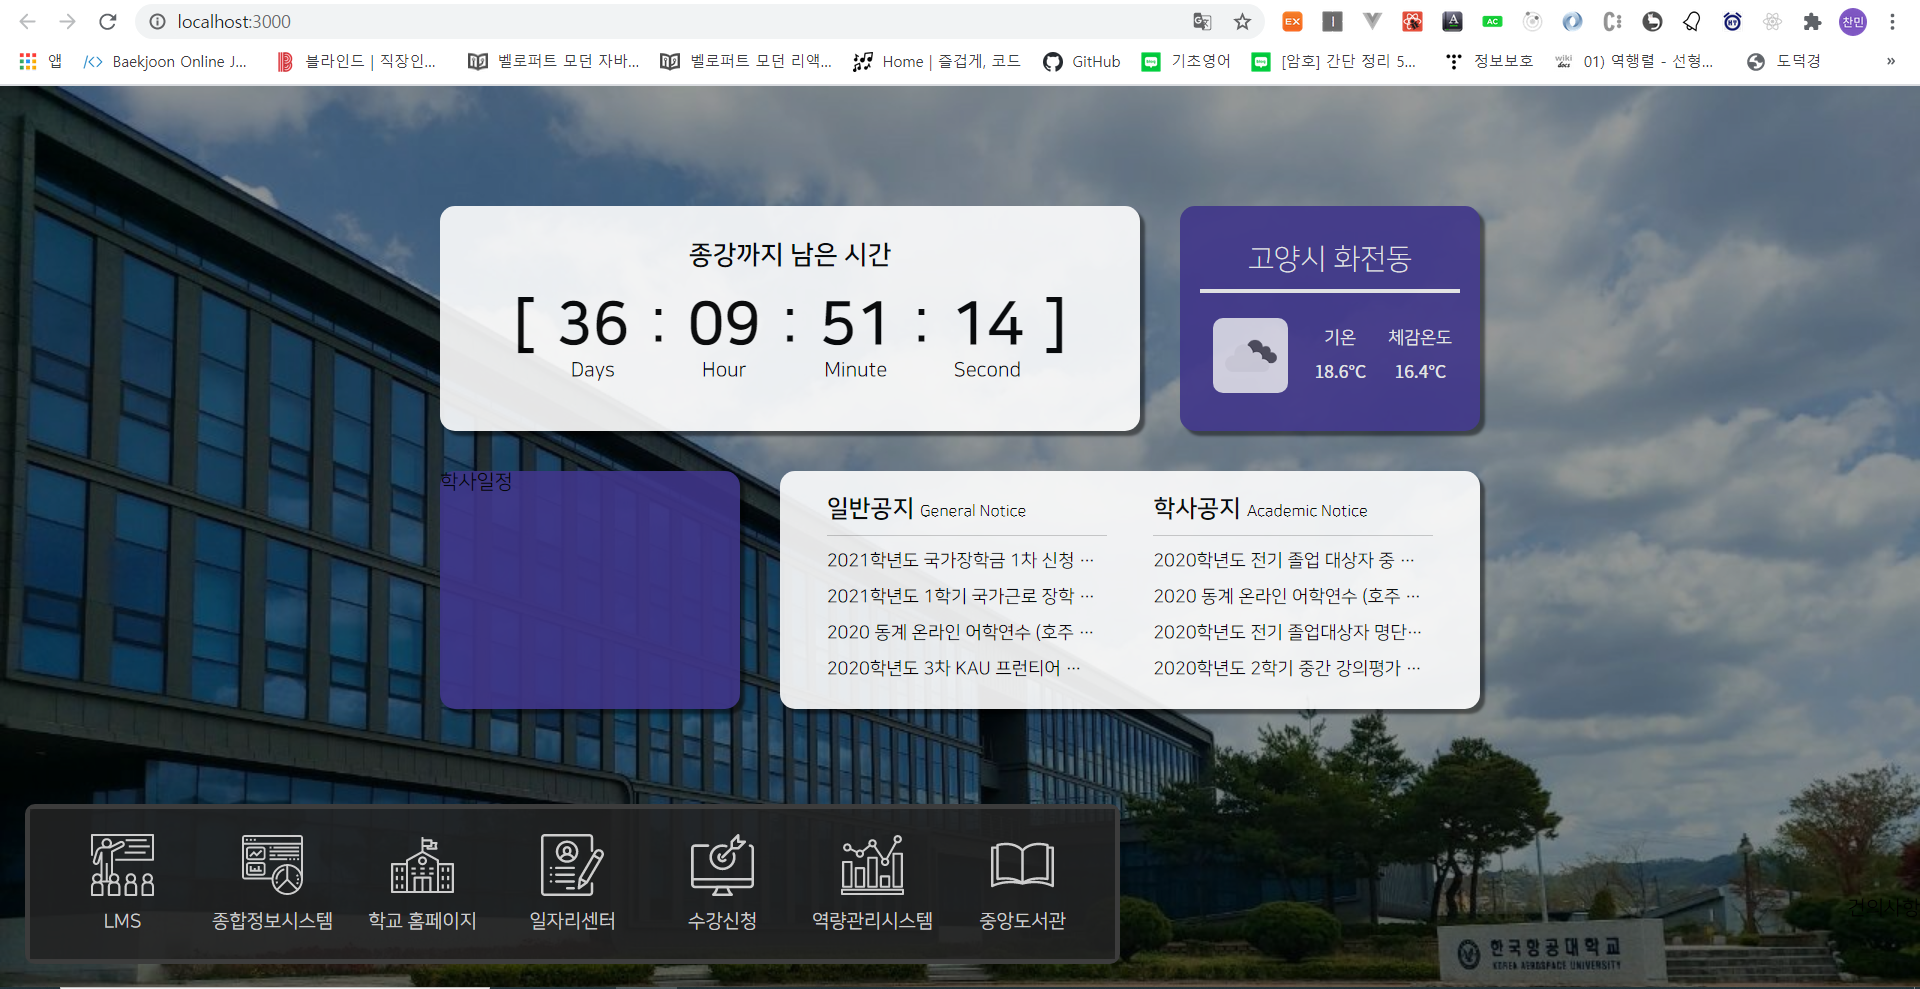
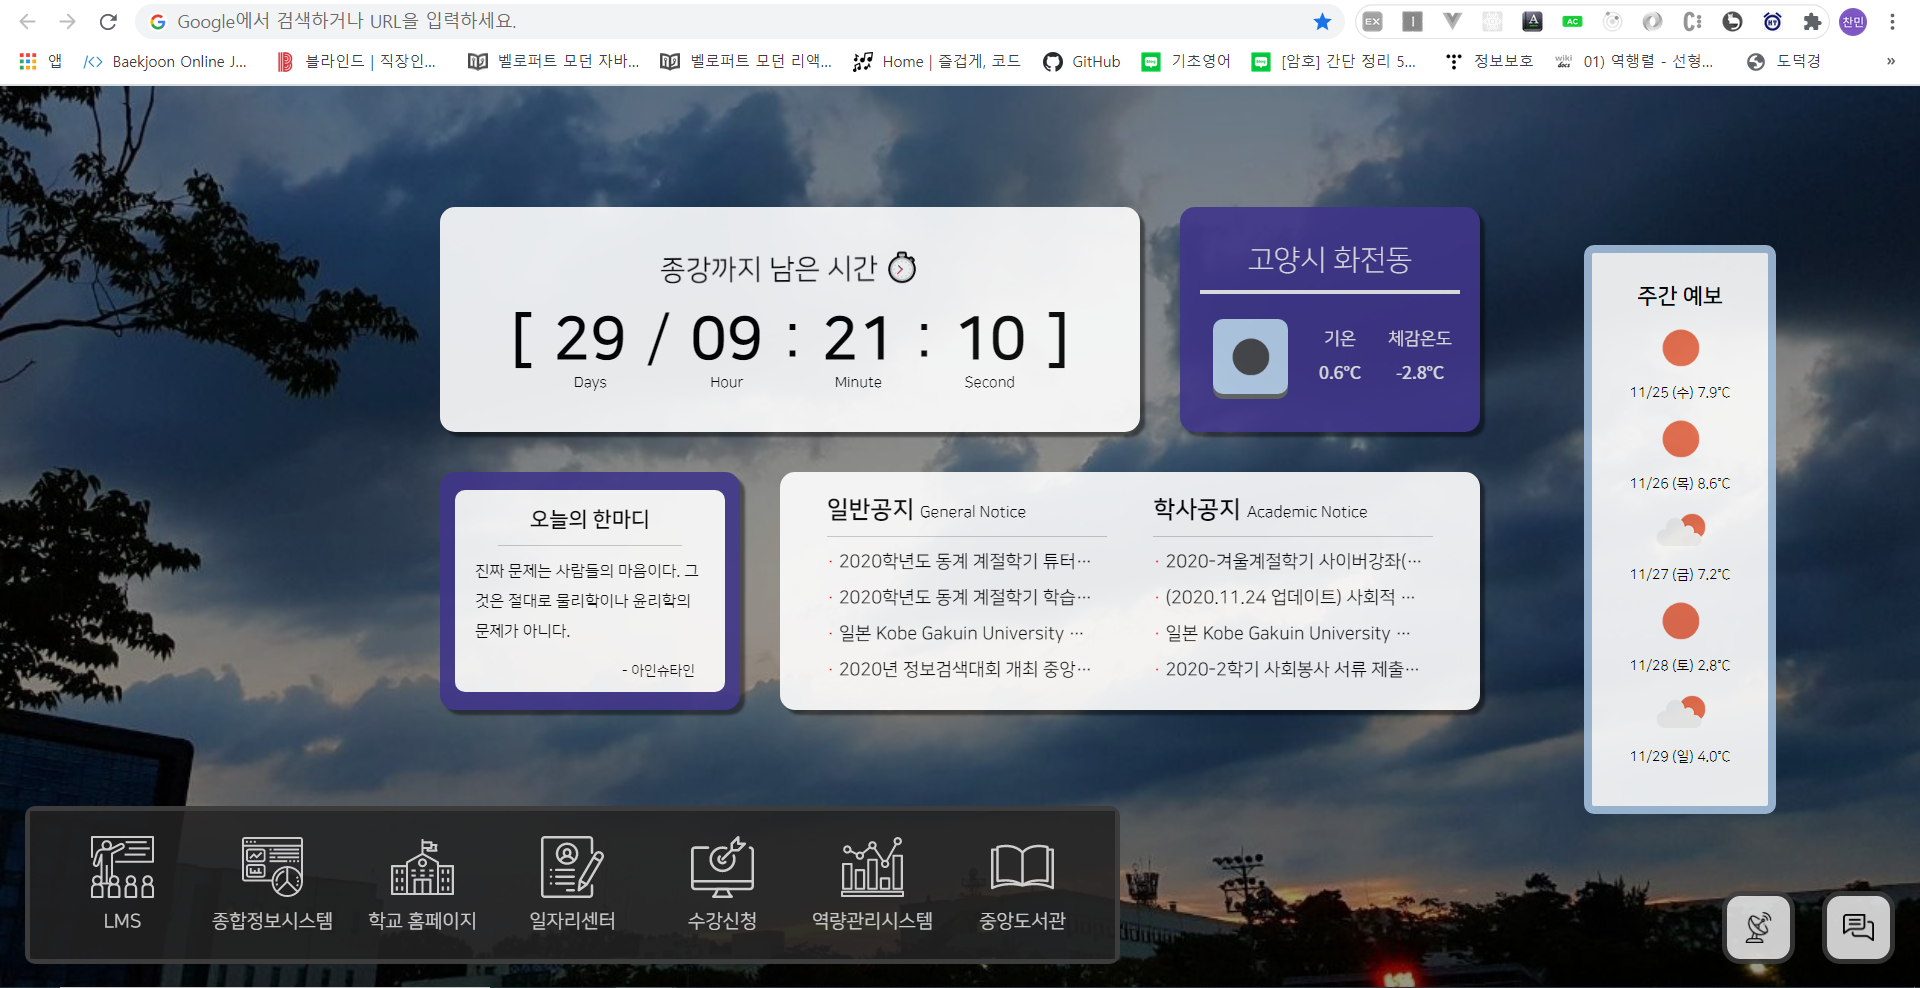
리드미 사진 수정

diff --git a/README.md b/README.md
@@ -3,7 +3,7 @@
 [![PRs Welcome](https://img.shields.io/badge/PRs-welcome-brightgreen.svg?style=flat-square)](http://makeapullrequest.com)
 [![Issues][issues-shield]][issues-url]
 
-### 작업중 이미지
+### 완성 이미지
 
 ![demo](./image.PNG)
 
